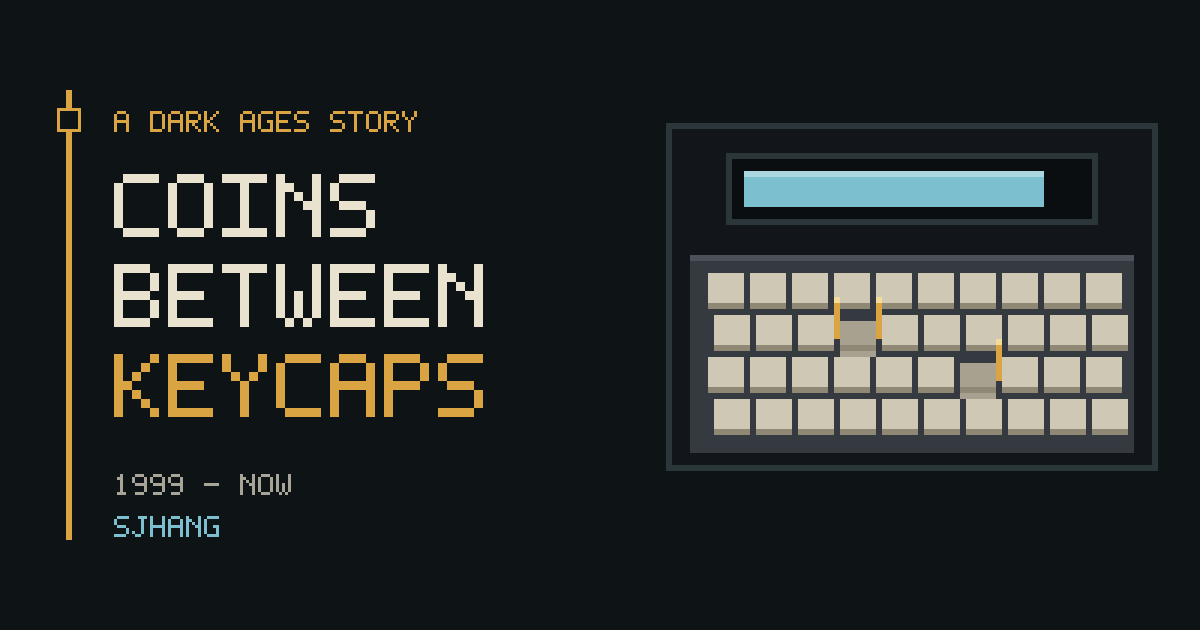
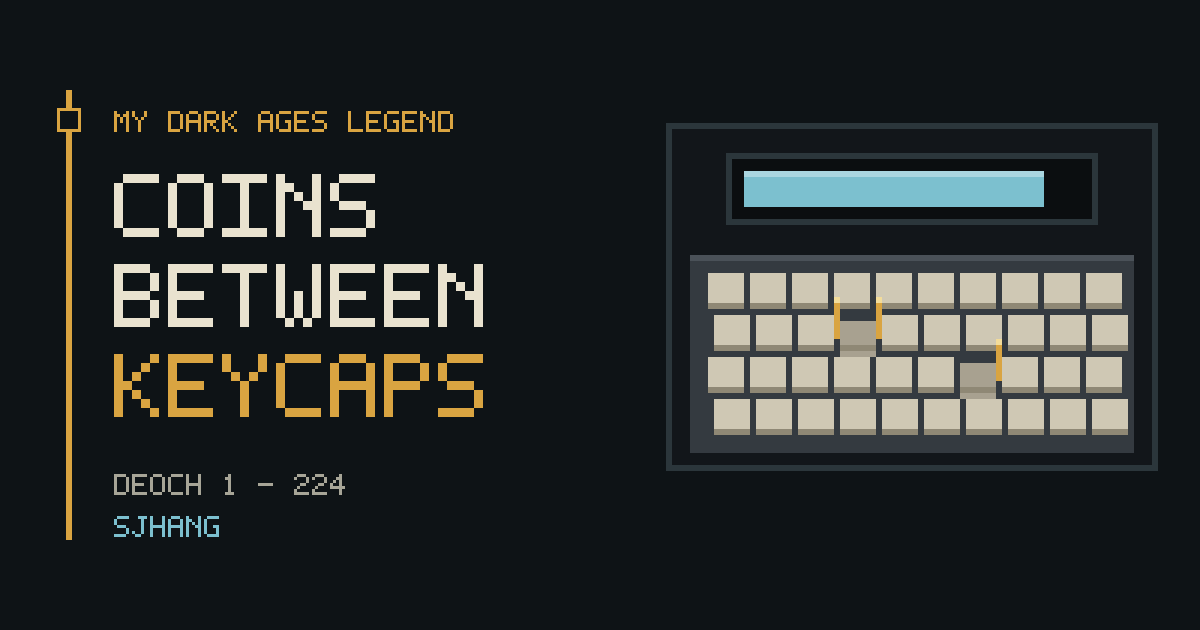
Legend marks, Deoch dates and a live Temuairan clock

Changed region(s): [[0.0925, 0.1508, 0.37, 0.2111], [0.0925, 0.754, 0.3083, 0.7841]]

diff --git a/index.html b/index.html
@@ -4,12 +4,12 @@
 <meta charset="utf-8">
 <meta name="viewport" content="width=device-width, initial-scale=1, viewport-fit=cover">
 <title>Coins Between Keycaps</title>
-<meta name="description" content="A Dark Ages story from a Windows 95 PC in 1999 to building Soondae: eight pixel-art chapters and a playbook for anyone coming back to an old game.">
+<meta name="description" content="My Dark Ages Legend, Deoch 1 to now: from a Windows 95 PC in 1999 to building Soondae, in eight pixel-art chapters, with a playbook for starting your own.">
 <meta name="theme-color" content="#d9a441">
 <meta property="og:type" content="article">
 <meta property="og:site_name" content="Soondae">
 <meta property="og:title" content="Coins Between Keycaps">
-<meta property="og:description" content="A Dark Ages story from a Windows 95 PC in 1999 to building Soondae: eight pixel-art chapters and a playbook for anyone coming back to an old game.">
+<meta property="og:description" content="My Dark Ages Legend, Deoch 1 to now: from a Windows 95 PC in 1999 to building Soondae, in eight pixel-art chapters, with a playbook for starting your own.">
 <meta property="og:url" content="https://sjhang.github.io/soondae/">
 <meta property="og:image" content="https://sjhang.github.io/soondae/og.png">
 <meta property="og:image:width" content="1200">
@@ -17,7 +17,7 @@
 <meta property="og:image:alt" content="Pixel art of a keyboard with gold coins wedged between the keycaps, beside the title Coins Between Keycaps">
 <meta name="twitter:card" content="summary_large_image">
 <meta name="twitter:title" content="Coins Between Keycaps">
-<meta name="twitter:description" content="A Dark Ages story from a Windows 95 PC in 1999 to building Soondae: eight pixel-art chapters and a playbook for anyone coming back to an old game.">
+<meta name="twitter:description" content="My Dark Ages Legend, Deoch 1 to now: from a Windows 95 PC in 1999 to building Soondae, in eight pixel-art chapters, with a playbook for starting your own.">
 <meta name="twitter:image" content="https://sjhang.github.io/soondae/og.png">
 <link rel="icon" href="og-icon.png" type="image/png">
 <style>html,body{margin:0}img{max-width:100%}[hidden]{display:none!important}:root{padding-top:env(safe-area-inset-top,0px);padding-bottom:env(safe-area-inset-bottom,0px)}</style>
@@ -113,6 +113,14 @@ h1 .glint { color: var(--gold); }
   font-family: var(--f-display); font-size: 1.35rem; color: var(--gold);
   border-left: 2px solid var(--gold); padding-left: .9rem;
 }
+.marks { list-style: none; margin: .2rem 0 0; padding: .8rem 0 0; border-top: 2px dashed var(--rule); display: grid; gap: .45rem; }
+.marks li { display: flex; gap: .7rem; align-items: baseline; font-family: var(--f-display); font-weight: 500; font-size: 1rem; line-height: 1.3; color: var(--spell); }
+.marks li::before { content: ""; flex: none; width: 10px; height: 10px; background: var(--gold); box-shadow: inset -2px -2px 0 rgba(0,0,0,.3), inset 2px 2px 0 rgba(255,255,255,.3); transform: translateY(1px); }
+.marks .dt { color: var(--ash); white-space: nowrap; }
+.clock { display: flex; flex-wrap: wrap; gap: .4rem 1rem; align-items: baseline; margin: 0; font-family: var(--f-display); font-size: 1.05rem; color: var(--spell); }
+.clock .label { color: var(--ash); }
+.clock small { font-family: var(--f-body); font-size: .9rem; color: var(--ash); font-style: italic; }
+.marks-label { font-family: var(--f-label); font-size: .68rem; letter-spacing: .08em; text-transform: uppercase; color: var(--ash); }
 .gloss { font-size: .95rem; color: var(--ash); }
 .gloss i { color: var(--vellum); }
 
@@ -175,15 +183,16 @@ h1 .glint { color: var(--gold); }
 <body>
 <div class="wrap">
   <header class="hero">
-    <div class="eyebrow">A Dark Ages story · 1999 to now</div>
+    <div class="eyebrow">My Legend · Deoch 1 to now</div>
     <h1>Coins Between <span class="glint">Keycaps</span></h1>
-    <p class="lede">From a Windows 95 PC at nine years old, to a crypt in a game I thought was gone, to building my own tool for it twenty-seven years later.</p>
+    <p class="lede">Every Aisling's Legend is a list of marks. Mine started on a Windows 95 PC at nine years old, picked up again in a crypt seventeen years later, and is still being written in a tool I'm building for the game.</p>
     <ul class="firsts" aria-label="Firsts from 1999">
       <li><b>First</b> email</li>
       <li><b>First</b> website</li>
       <li><b>First</b> Google account</li>
       <li><b>First</b> online RPG</li>
     </ul>
+    <p class="clock" title="One Temuairan day is three real hours. Reckoned from the date the game server announces."><span class="label">Temuair now</span><span data-clock>Deoch 224</span><small>Every date on this page is in Deochs, the way the game keeps time.</small></p>
     <p class="byline">By <a href="https://github.com/SJhang">SJhang</a>, player, and the person behind Soondae</p>
   </header>
 
@@ -196,12 +205,16 @@ h1 .glint { color: var(--gold); }
           <figcaption>Windows 95, a CRT, and a game window glowing teal.</figcaption>
         </figure>
         <div class="text">
-          <div class="when">1999 · Age 9</div>
+          <div class="when">Deoch 1 · 1999 · Age 9</div>
           <h2><span class="num">I</span>The first computer</h2>
           <p>I got my first computer in 1999, when I was nine. It ran Windows 95, and it brought a run of firsts with it: my first email, my first website, my first Google account, and my first online RPG.</p>
           <p>That game was LoD, <i>Legend of Darkness</i>, the Korean version of Dark Ages. What hooked me was that nobody advanced alone. Every class had its own role, and moving forward meant finding the people who filled the others. My friends and I spent every hour we could in it, right up until the free trial ran out.</p>
           <p>Then my mom took my PC away, worried I'd become a game addict.</p>
           <p class="quip">Too late. I'd already OD'd.</p>
+          <ul class="marks" aria-label="Legend marks">
+            <li><span>Aisling of Legend of Darkness, age 9 <span class="dt">- Deoch 1</span></span></li>
+            <li>Ran the free trial to its last hour</li>
+          </ul>
         </div>
       </article>
 
@@ -211,10 +224,14 @@ h1 .glint { color: var(--gold); }
           <figcaption>A lot of worlds. None of them needed me.</figcaption>
         </figure>
         <div class="text">
-          <div class="when">The years after</div>
+          <div class="when">The Deochs between</div>
           <h2><span class="num">II</span>Nothing scratched the spot</h2>
           <p>Diablo II, MapleStory, Ragnarok, Aion and countless other RPGs and MMOs followed. None of them scratched the same spot.</p>
           <p>Newer games let you advance on your own, which was almost unthinkable in DA. Dark Ages was built as a real role-playing game: you needed other people, and they needed you.</p>
+          <p>Those games gave me levels. None of them gave me a Legend.</p>
+          <ul class="marks" aria-label="Legend marks">
+            <li>Wandered other worlds, none of them home</li>
+          </ul>
         </div>
       </article>
 
@@ -224,10 +241,14 @@ h1 .glint { color: var(--gold); }
           <figcaption>Before the script: coins holding the keys down overnight.</figcaption>
         </figure>
         <div class="text">
-          <div class="when">Growing up in the game</div>
+          <div class="when">The early Deochs · growing up in the game</div>
           <h2><span class="num">III</span>Coins between keycaps</h2>
           <p>I had highs and lows growing up in that community. It taught me how to talk to strangers, and I grew socially both inside the game and out of it.</p>
           <p>It's also where I wrote my first ever code: an AutoHotkey loop to level up my Wind Blade proficiency. Before that, I wedged coins between my keycaps to hold the keys down.</p>
+          <ul class="marks" aria-label="Legend marks">
+            <li>Learned to talk to strangers</li>
+            <li>First code: a Wind Blade loop in AutoHotkey</li>
+          </ul>
         </div>
       </article>
 
@@ -237,10 +258,13 @@ h1 .glint { color: var(--gold); }
           <figcaption>Back in the crypt, farming like it's day one.</figcaption>
         </figure>
         <div class="text">
-          <div class="when">Seventeen years later</div>
+          <div class="when">Deoch 222, 2nd Moon · seventeen years later</div>
           <h2><span class="num">IV</span>Still alive in the States</h2>
           <p>Seventeen years later, I ran into a YouTube video and found out there was still a live Dark Ages community in the States.</p>
           <p>I made an account to relive my childhood, started farming in the crypt, and ran into Zerio: the guru, the boss.</p>
+          <ul class="marks" aria-label="Legend marks">
+            <li><span>Returned to Temuair after 17 years <span class="dt">- Deoch 222</span></span></li>
+          </ul>
         </div>
       </article>
 
@@ -250,10 +274,14 @@ h1 .glint { color: var(--gold); }
           <figcaption>A stranger with time to spare, and a guild full of balloons.</figcaption>
         </figure>
         <div class="text">
-          <div class="when">Week one</div>
+          <div class="when">Deoch 222 · week one</div>
           <h2><span class="num">V</span>A stranger who stopped to help</h2>
           <p>Zerio was a stranger, but a kind and generous one, who stepped me through everything I needed to know to fully indulge in the game.</p>
           <p>I bought my first reg because I wanted to join the guild: <b>The Balloon Boys</b>.</p>
+          <ul class="marks" aria-label="Legend marks">
+            <li><span>Guided by Zerio <span class="dt">- Deoch 222</span></span></li>
+            <li><span>Joined The Balloon Boys <span class="dt">- Deoch 222</span></span></li>
+          </ul>
         </div>
       </article>
 
@@ -263,10 +291,14 @@ h1 .glint { color: var(--gold); }
           <figcaption>The whole community in one room.</figcaption>
         </figure>
         <div class="text">
-          <div class="when">Week one, still</div>
+          <div class="when">Deoch 222 · week one, still</div>
           <h2><span class="num">VI</span>High Priestess of Glioca</h2>
           <p>In my very first week, Yuka became High Priestess of Glioca, and I got to be part of a heartwarming event with the whole DA community.</p>
           <p>I was also lucky enough to win a giveaway, a pair of AB99 greaves. That's what got me thinking: I want to experience the end-game content with these people, while I still can.</p>
+          <ul class="marks" aria-label="Legend marks">
+            <li><span>Witnessed Yuka become High Priestess of Glioca <span class="dt">- Deoch 222</span></span></li>
+            <li><span>Won AB99 greaves in a giveaway <span class="dt">- Deoch 222</span></span></li>
+          </ul>
         </div>
       </article>
 
@@ -276,11 +308,14 @@ h1 .glint { color: var(--gold); }
           <figcaption>AB99. The giveaway that changed the plan.</figcaption>
         </figure>
         <div class="text">
-          <div class="when">The last three months</div>
+          <div class="when">Deoch 222 to 224 · the last three months</div>
           <h2><span class="num">VII</span>The most giving people I've played with</h2>
           <p>That's been my journey for the last three months. So much help, so many shoutouts, so many sabonims and warm-hearted people. I have yet to be part of another online community with people this giving.</p>
           <p class="gloss"><i>Sabonim</i>: Korean for a respected teacher, the word I keep coming back to for the players who taught me.</p>
-          <p>DA went from a nostalgic memory to part of my daily login.</p>
+          <p>DA went from a nostalgic memory to part of my daily login, and my Legend got longer than it ever did as a kid.</p>
+          <ul class="marks" aria-label="Legend marks">
+            <li><span>Taught by many sabonims <span class="dt">- Deoch 222 to 224</span></span></li>
+          </ul>
         </div>
       </article>
 
@@ -290,10 +325,14 @@ h1 .glint { color: var(--gold); }
           <figcaption>Code on the left, Temuair on the right.</figcaption>
         </figure>
         <div class="text">
-          <div class="when">Now</div>
+          <div class="when">Now · <span data-clock>Deoch 224</span></div>
           <h2><span class="num">VIII</span>Riddles, giving back, and a tool of my own</h2>
           <p>So here I am: solving riddles, giving back to the community, and building my own tool.</p>
           <p>I write code for a living, and DA was the first spark. Solving problems, fixing what's broken, making everyday life a little easier: it started with a Wind Blade loop.</p>
+          <ul class="marks" aria-label="Legend marks">
+            <li>Solved riddles for the community</li>
+            <li><span>Builder of Soondae <span class="dt">- Deoch 224</span></span></li>
+          </ul>
         </div>
       </article>
     </section>
@@ -301,8 +340,8 @@ h1 .glint { color: var(--gold); }
     <section aria-labelledby="playbook">
       <div class="section-head">
         <div class="eyebrow">The playbook</div>
-        <h2 id="playbook">For anyone finding their way back</h2>
-        <p>Everything that worked for me, in the order it happened. If you left an old game behind years ago, this is how coming home went.</p>
+        <h2 id="playbook">Start your own Legend</h2>
+        <p>For anyone finding their way back. Everything that worked for me, in the order it happened. Each play is a mark waiting on your Legend.</p>
       </div>
       <ol class="plays">
         <li class="play">
@@ -362,7 +401,7 @@ h1 .glint { color: var(--gold); }
       </div>
       <figure class="scene">
         <canvas width="80" height="56" data-scene="campfire" aria-label="Pixel drawing of Aislings gathered around a campfire under the stars"></canvas>
-        <figcaption>See you in Temuair.</figcaption>
+        <figcaption>See you in Temuair. Come add a mark to my Legend.</figcaption>
       </figure>
     </section>
   </main>
@@ -579,6 +618,22 @@ h1 .glint { color: var(--gold); }
     }
     setInterval(() => { if (document.hidden) return; t++; visible.forEach(draw); }, 140);
   }
+
+  // Temuairan clock. The server announces dates like "Deoch 224, 2nd Moon, 10th Sun, 7 a.m."; logged against real
+  // time, one Temuairan hour is 7.5 real minutes (a day is three real hours). Anchor: the 1st Sun of Deoch 224's
+  // 2nd Moon began about 2026-11-19 12:00 UTC. The 12th and 1st Moons both ran 31 Suns; other moons may be shorter,
+  // so the clock can drift by a Sun per moon until it is re-anchored.
+  const ANCHOR = Date.UTC(2026, 10, 19, 12, 0, 0), HOUR_MS = 450000, SUNS = 31;
+  const ord = n => n + ((n % 100 >= 11 && n % 100 <= 13) ? "th" : ["th", "st", "nd", "rd"][n % 10] || "th");
+  const temuair = ms => {
+    const h = Math.max(0, Math.floor((ms - ANCHOR) / HOUR_MS)), days = Math.floor(h / 24), hour = h % 24;
+    const moons = 1 + Math.floor(days / SUNS);
+    const deoch = 224 + Math.floor(moons / 12), moon = (moons % 12) + 1, sun = (days % SUNS) + 1;
+    const clock = (hour % 12 || 12) + (hour < 12 ? " a.m." : " p.m.");
+    return `Deoch ${deoch}, ${ord(moon)} Moon, ${ord(sun)} Sun, ${clock}`;
+  };
+  const tick = () => { const s = temuair(Date.now()); document.querySelectorAll("[data-clock]").forEach(el => { el.textContent = s; }); };
+  tick(); setInterval(tick, 15000);
 
   const btn = document.getElementById("copy"), note = document.getElementById("copied");
   btn.addEventListener("click", () => {
